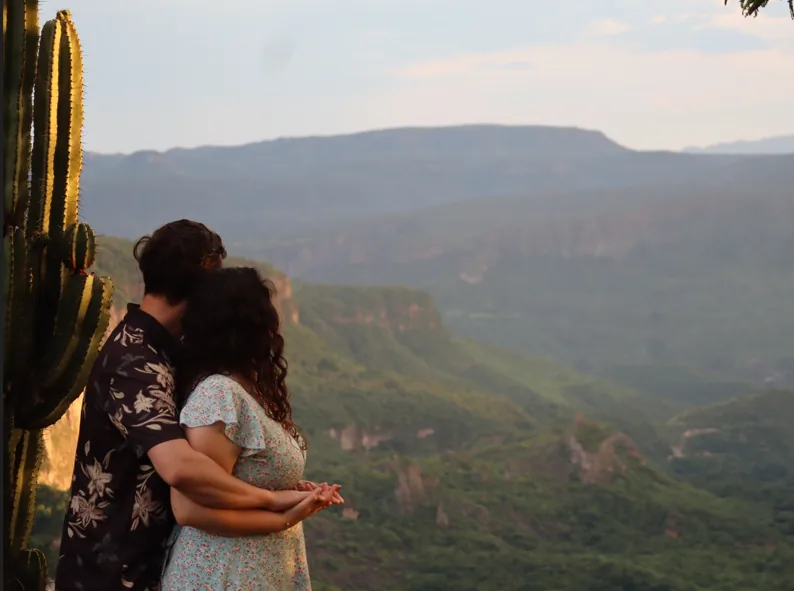
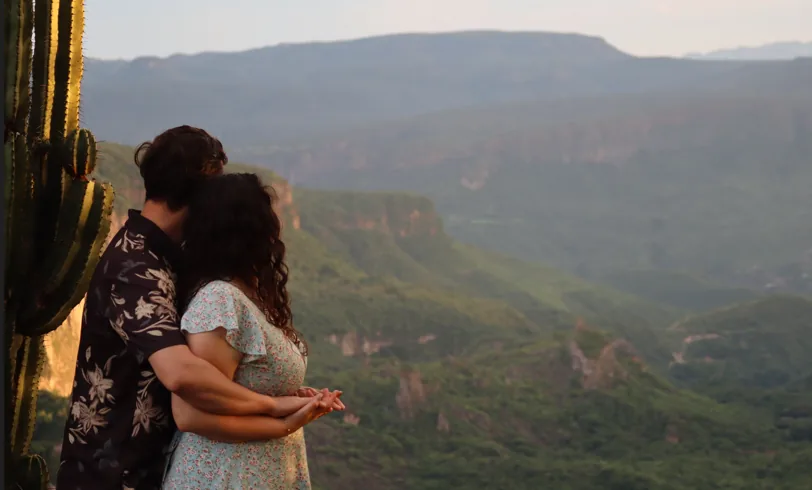
Mejoras

diff --git a/src/components/Invitation/ViewSection5.vue b/src/components/Invitation/ViewSection5.vue
@@ -1,26 +1,95 @@
 <template>
-  <section class="p-4">
-    <div class="w-full h-fit bg-transparent border-3 border-primary">
-      <img class=" w-full h-full max-h-[85svh] object-cover" src="../../assets/images/itinerario.webp" alt="Itinerario" />
+  <section class="p-4 gap-6">
+    <h1 class="font-cormorant text-primary text-4xl font-bold text-center">Itinerario</h1>
+
+    <div class="relative w-full p-4 pt-6 flex flex-col items-center border border-primary rounded-md">
+      <!-- corazón montado sobre la línea del marco: el fondo crema la corta -->
+      <span class="absolute top-0 left-1/2 flex -translate-x-1/2 -translate-y-1/2 bg-background px-2">
+        <HeartIcon class="w-4 h-4 text-primary" />
+      </span>
+
+
+      <ul class="relative w-full flex flex-col gap-3 list-none mt-3">
+        <!--
+          Línea vertical continua por detrás de todo. Los corazones la tapan con
+          bg-background, así parece que la van cortando en cada evento.
+        -->
+        <span class="absolute inset-y-0 left-1/2 w-px -translate-x-1/2 bg-primary/40" />
+
+        <!--
+          Tres columnas: [contenido] [corazón] [contenido]. En vez de duplicar el
+          markup para cada lado, se mueve cada celda con col-start según el
+          índice: los pares llevan la info a la izquierda y el icono a la
+          derecha, y los impares al revés.
+          El `relative` de la fila la deja pintarse encima de la línea.
+
+          row-start-1 en las tres celdas es obligatorio, no decorativo: al
+          invertir el orden (col 3 → 2 → 1) el auto-placement de grid no puede
+          retroceder de columna y va creando filas nuevas, así que los eventos
+          impares se apilaban en vez de alinearse. Fijando también la fila, cada
+          celda se coloca directo en su lugar.
+        -->
+        <li
+          v-for="(evento, i) in itinerario"
+          :key="evento.hora"
+          class="relative grid grid-cols-[1fr_auto_1fr] items-center gap-2 p-4"
+        >
+          <div
+            class="flex flex-col justify-center"
+            :class="i % 2 === 0
+              ? 'row-start-1 col-start-1 items-end text-right'
+              : 'row-start-1 col-start-3 items-start text-left'"
+          >
+            <span class="font-serif italic text-secondary text-sm">{{ evento.hora }}</span>
+            <span class="font-cormorant text-primary text-lg font-semibold leading-tight">
+              {{ evento.text }}
+            </span>
+          </div>
+
+          <!-- px además de py: el fondo tiene que tapar la línea a lo ancho -->
+          <span class="row-start-1 col-start-2 flex items-center justify-center bg-background px-2 py-1.5">
+            <HeartIcon class="w-4 h-4 text-primary" />
+          </span>
+
+          <img
+            :src="evento.icono"
+            :alt="evento.text"
+            class="w-16 h-16 object-contain"
+            :class="i % 2 === 0
+              ? 'row-start-1 col-start-3 justify-self-start'
+              : 'row-start-1 col-start-1 justify-self-end'"
+          />
+        </li>
+      </ul>
     </div>
   </section>
 </template>
 
 <script>
-import TextBox from '../ui/TextBox.vue'
-import weddingData from '../../data/wedding-data.js'
+import { HeartIcon } from '@heroicons/vue/24/solid'
+import SeparadorCorazon from '../ui/SeparadorCorazon.vue'
+import iconoCeremonia from '../../assets/images/itinerario/itinerario_1_ceremonia.webp'
+import iconoRecepcion from '../../assets/images/itinerario/itinerario_2_recepcion.webp'
+import iconoBanquete from '../../assets/images/itinerario/itinerario_3_banquete.webp'
+import iconoBaile from '../../assets/images/itinerario/itinerario_4_baile.webp'
+import iconoFin from '../../assets/images/itinerario/itinerario_5_fin.webp'
+
 export default {
   name: 'ViewSection5',
   components: {
-    TextBox
+    HeartIcon,
+    SeparadorCorazon,
   },
   data() {
     return {
-      data: weddingData,
+      itinerario: [
+        { hora: '4:00 pm', text: 'Ceremonia religiosa', icono: iconoCeremonia },
+        { hora: '6:00 pm', text: 'Recepción', icono: iconoRecepcion },
+        { hora: '8:00 pm', text: 'Banquete', icono: iconoBanquete },
+        { hora: '9:00 pm', text: 'Baile', icono: iconoBaile },
+        { hora: '2:00 am', text: 'Fin del evento', icono: iconoFin },
+      ],
     };
   }
 };
 </script>
-
-<style scoped>
-</style>

diff --git a/src/components/Invitation/ViewSection7.vue b/src/components/Invitation/ViewSection7.vue
@@ -1,27 +1,95 @@
 <template>
-  <section class="flex flex-col p-4 py-20 gap-10">
+  <section class="p-4 gap-4">
     <h1 class="font-cormorant text-primary text-4xl font-bold text-center">Código de Vestimenta</h1>
-    <div class="w-full h-full">
-      <img class="w-full h-full object-cover border-2 border-primary" src="../../assets/images/codigo-vestimenta-3.webp" alt="Código de Vestimenta" />
+
+    <div class="relative w-full p-4 pt-6 flex flex-col items-center gap-3 border border-primary rounded-md">
+      <!-- corazón montado sobre la línea del marco: el fondo crema la corta -->
+      <span class="absolute top-0 left-1/2 flex -translate-x-1/2 -translate-y-1/2 bg-background px-2">
+        <HeartIcon class="w-4 h-4 text-primary" />
+      </span>
+
+      <!-- <SeparadorCorazon /> -->
+
+      <!-- ── Blanco: vestido a la izquierda, texto a la derecha ── -->
+      <div class="w-full flex items-center gap-3 my-4">
+        <img
+          :src="vestidoBlanco"
+          alt="Vestido blanco"
+          class="h-28 w-auto shrink-0 object-contain"
+        />
+
+        <div class="flex-1 flex flex-col items-center text-center gap-0.5">
+          <h2 class="font-cormorant text-primary text-2xl font-bold uppercase tracking-wide leading-none">
+            Blanco
+          </h2>
+
+          <span class="flex items-center gap-2 w-full max-w-[9rem] my-1">
+            <span class="flex-1 h-px bg-primary/40" />
+            <HeartIcon class="w-2 h-2 shrink-0 text-primary" />
+            <span class="flex-1 h-px bg-primary/40" />
+          </span>
+
+          <p class="font-serif text-secondary text-xs leading-relaxed">
+            Este color es exclusivo para la novia.
+          </p>
+        </div>
+      </div>
+
+      <!-- ── Nota central, entre los dos colores ── -->
+      <div class="w-full py-2 px-4 flex flex-col items-center gap-0.5 border border-primary/50 rounded-xl">
+        <!-- <HeartIcon class="w-2 h-2 text-primary" /> -->
+        <span class="font-serif text-secondary text-sm">Puedes usar</span>
+        <span class="font-great text-primary text-2xl leading-tight">lo que más te guste.</span>
+        <!-- <HeartIcon class="w-2 h-2 text-primary" /> -->
+      </div>
+
+      <!-- ── Terracota: espejado, texto a la izquierda y vestido a la derecha ── -->
+      <div class="w-full flex items-center gap-3 my-4">
+        <div class="flex-1 flex flex-col items-center text-center gap-0.5">
+          <h2 class="font-cormorant text-primary text-2xl font-bold uppercase tracking-wide leading-none">
+            Terracota
+          </h2>
+
+          <span class="flex items-center gap-2 w-full max-w-[9rem] my-1">
+            <span class="flex-1 h-px bg-primary/40" />
+            <HeartIcon class="w-2 h-2 shrink-0 text-primary" />
+            <span class="flex-1 h-px bg-primary/40" />
+          </span>
+
+          <p class="font-serif text-secondary text-xs leading-relaxed">
+            Este será el color de los vestidos de nuestras damas. Gracias por tenerlo en cuenta.
+          </p>
+        </div>
+
+        <img
+          :src="vestidoTerracota"
+          alt="Vestido terracota"
+          class="h-28 w-auto shrink-0 object-contain"
+        />
+      </div>
+
+      <SeparadorCorazon />
     </div>
   </section>
 </template>
 
 <script>
-import TextBox from '../ui/TextBox.vue'
-import weddingData from '../../data/wedding-data.js'
+import { HeartIcon } from '@heroicons/vue/24/solid'
+import SeparadorCorazon from '../ui/SeparadorCorazon.vue'
+import vestidoBlanco from '../../assets/images/vestimenta/vestimenta_blanco.webp'
+import vestidoTerracota from '../../assets/images/vestimenta/vestimenta_terracota.webp'
+
 export default {
   name: 'ViewSection7',
   components: {
-    TextBox
+    HeartIcon,
+    SeparadorCorazon,
   },
   data() {
     return {
-      data: weddingData,
+      vestidoBlanco,
+      vestidoTerracota,
     };
   }
 };
 </script>
-
-<style scoped>
-</style>

diff --git a/src/components/Invitation/ViewSection10.vue b/src/components/Invitation/ViewSection10.vue
@@ -1,29 +1,24 @@
 <template>
   <section class="p-4">
-    <div class="relative items-center justify-around w-full h-[75svh] p-4 flex flex-col gap-2 border border-primary rounded-md">
+    <div
+      class="relative items-center justify-around w-full h-[75svh] p-4 flex flex-col gap-2 border border-primary rounded-md">
       <!-- corazón montado sobre la línea del marco: el fondo crema la corta -->
       <span class="absolute top-0 left-1/2 flex -translate-x-1/2 -translate-y-1/2 bg-background px-2">
         <HeartIcon class="w-4 h-4 text-primary" />
       </span>
 
-      <!--
-        Las fotos son verticales: al angostarlas el contenedor se acerca a su
-        proporción y bg-cover recorta menos. self-start / self-end las manda a
-        cada extremo, ganándole al items-center del padre.
-      -->
-        <div class="relative grid grid-cols-2 min-h-[50%] w-full gap-2">
-          <div class="h-full col-span-1 bg-cover bg-center bg-no-repeat rounded-md shadow-md image-1" />
-          <div class="h-full col-span-1 bg-cover bg-center bg-no-repeat rounded-md shadow-md image-2" />
-        </div>
 
       <div class="relative my-4 text-lg w-full p-5 flex flex-col items-center gap-3 ">
         <p class="font-serif text-black text-center leading-relaxed">
-          {{ data.messages.texto7 }}
+          {{ data.messages.texto8 }}
         </p>
         <SeparadorCorazon />
       </div>
 
+      <BotonEnlace class="mt-[8%]" to="/hospedaje" texto="Dónde Hospedarme" :icono="BuildingOffice2Icon" />
+
     </div>
+
   </section>
 </template>
 
@@ -31,12 +26,14 @@
 import { HeartIcon, BuildingOffice2Icon } from '@heroicons/vue/24/solid'
 import SeparadorCorazon from '../ui/SeparadorCorazon.vue'
 import weddingData from '../../data/wedding-data.js'
+import BotonEnlace from '../ui/BotonEnlace.vue'
 
 export default {
   name: 'ViewSection9',
   components: {
     HeartIcon,
     SeparadorCorazon,
+    BotonEnlace,
   },
   data() {
     return {
@@ -52,6 +49,7 @@ export default {
   background-image: url('../../assets/images/pictures/select-21.webp');
   background-position-y: top;
 }
+
 .image-2 {
   background-image: url('../../assets/images/pictures/select-22.webp');
 }

diff --git a/src/assets/imagenes-invitacion.js b/src/assets/imagenes-invitacion.js
@@ -12,11 +12,16 @@ import sobreAbierto from './images/sobre-abierto-sombra.webp'
 import select1 from './images/pictures/select-1.webp'
 import santuarioEncino from './images/pictures/santuario-encino.webp'
 import casaFlorencia from './images/pictures/casa-florencia.webp'
-import itinerario from './images/itinerario.webp'
+import itinerario1 from './images/itinerario/itinerario_1_ceremonia.webp'
+import itinerario2 from './images/itinerario/itinerario_2_recepcion.webp'
+import itinerario3 from './images/itinerario/itinerario_3_banquete.webp'
+import itinerario4 from './images/itinerario/itinerario_4_baile.webp'
+import itinerario5 from './images/itinerario/itinerario_5_fin.webp'
 import select2 from './images/pictures/select-2.webp'
 import select3 from './images/pictures/select-3.webp'
 import selectMano from './images/pictures/select-mano.webp'
-import codigoVestimenta from './images/codigo-vestimenta-3.webp'
+import vestidoBlanco from './images/vestimenta/vestimenta_blanco.webp'
+import vestidoTerracota from './images/vestimenta/vestimenta_terracota.webp'
 import select11 from './images/pictures/select-11.webp'
 import select12 from './images/pictures/select-12.webp'
 import select21 from './images/pictures/select-21.webp'
@@ -28,11 +33,16 @@ export default [
   select1, // sección 2, foto
   santuarioEncino, // sección 3, ceremonia
   casaFlorencia, // sección 4, recepción
-  itinerario, // sección 5
+  itinerario1, // sección 5, itinerario
+  itinerario2,
+  itinerario3,
+  itinerario4,
+  itinerario5,
   select2, // sección 6, galería
   select3, // sección 6, galería
   selectMano, // sección 6, galería
-  codigoVestimenta, // sección 7
+  vestidoBlanco, // sección 7, código de vestimenta
+  vestidoTerracota,
   select11, // sección 8, mesa de regalos
   select12, // sección 8, mesa de regalos
   select21, // sección 9, agradecimiento

diff --git a/src/components/Invitation/index.vue b/src/components/Invitation/index.vue
@@ -23,10 +23,12 @@
     <ViewSection6 class="seccion" />
     <!-- seccion 7: Codigo de vestimenta -->
     <ViewSection7 class="seccion" />
-    <!-- seccion 7: Mesa de regalos -->
+    <!-- seccion 8: Mesa de regalos -->
     <ViewSection8 class="seccion" />
+    <!-- seccion 9: Gracias -->
     <ViewSection9 class="seccion" />
-
+    <!-- seccion 10: hospedaje -->
+ <ViewSection10 class="seccion" />
   </div>
 </template>
 
@@ -40,8 +42,10 @@ import ViewSection6 from './ViewSection6.vue'
 import ViewSection7 from './ViewSection7.vue'
 import ViewSection8 from './ViewSection8.vue'
 import ViewSection9 from './ViewSection9.vue'
+import ViewSection10 from './ViewSection10.vue'
 import TextBox from '../ui/TextBox.vue'
 import MusicPlayer from '../MusicPlayer.vue'
+
 
 export default {
   name: 'Invitation',
@@ -57,6 +61,7 @@ export default {
     ViewSection7,
     ViewSection8,
     ViewSection9,
+    ViewSection10,
   },
   data() {
     return {

diff --git a/src/data/wedding-data.js b/src/data/wedding-data.js
@@ -26,7 +26,8 @@ export default {
     texto4: "¡Te esperamos!",
     texto5: "Lo más importante para nosotros es compartir este día tan especial con ustedes y contar con su presencia.",
     texto6: "Si desean obsequiarnos algo, hemos preparado una mesa de regalos con algunas cosas para comenzar esta nueva etapa.",
-    texto7: "Gracias por acompañarnos, por su cariño y por ser parte de este día tan especial."
+    texto7: "Gracias por acompañarnos, por su cariño y por ser parte de este día tan especial.",
+    texto8: "Para que disfrutes de nuestra celebración sin preocupaciones, hemos preparado algunas opciones de hospedaje para tu comodidad"
   },
 
   colors: [

diff --git a/src/components/Invitation/ViewSection8.vue b/src/components/Invitation/ViewSection8.vue
@@ -65,6 +65,5 @@ export default {
 }
 .image-3 {
   background-image: url('../../assets/images/pictures/select-12.webp');
-  background-position-y: center;
 }
 </style>
